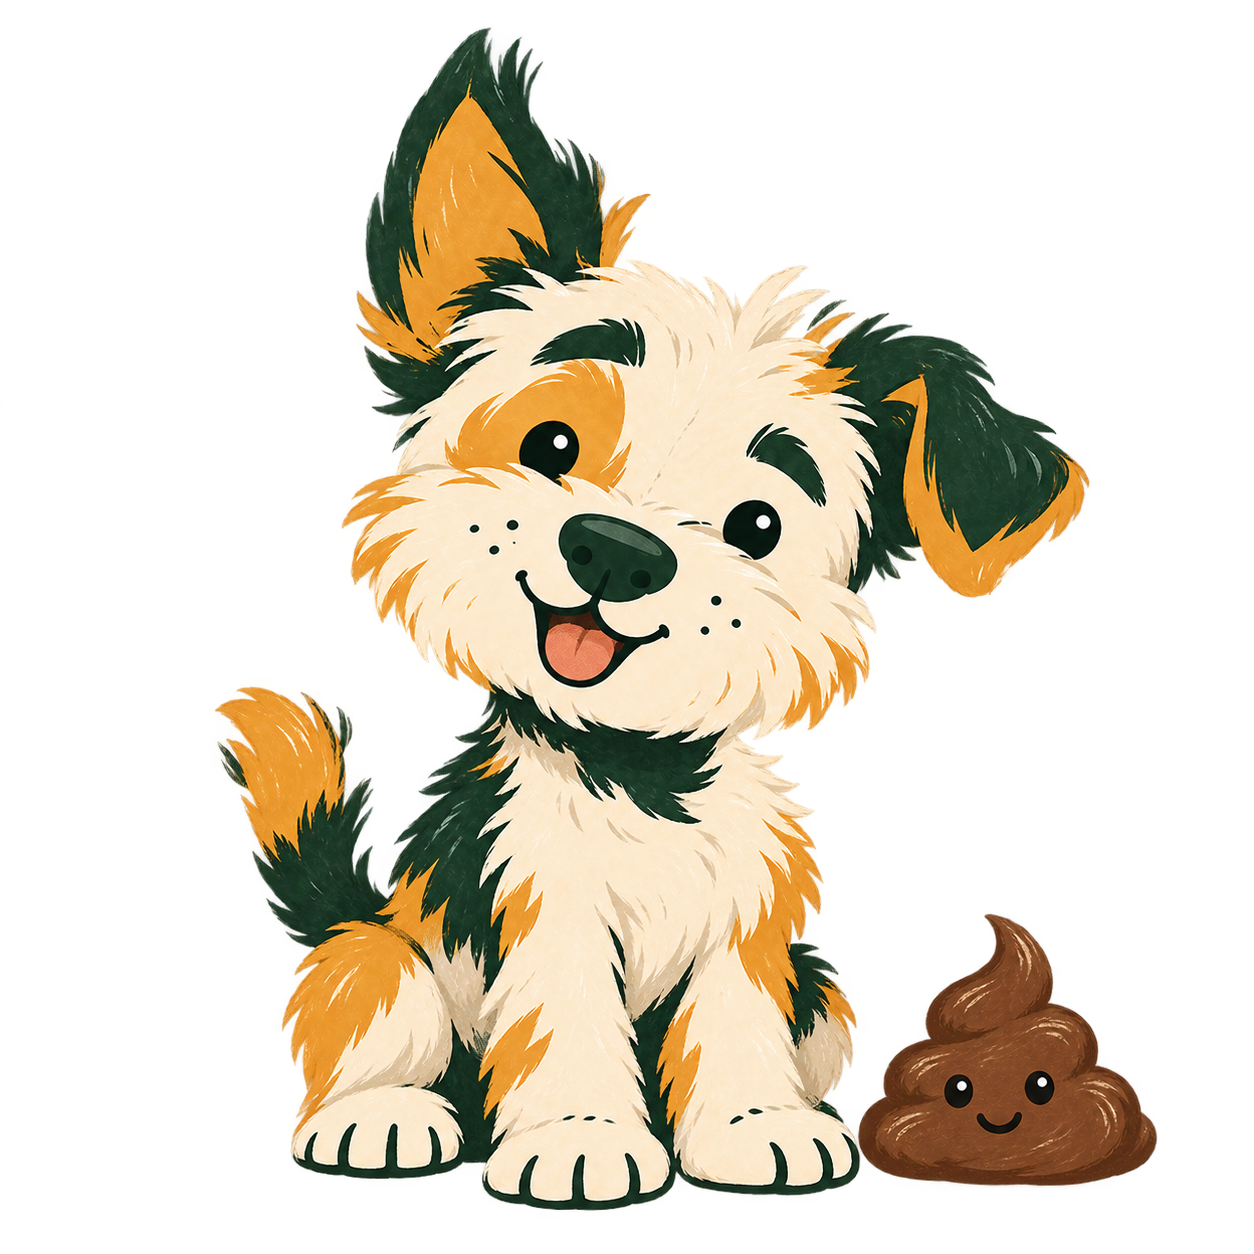
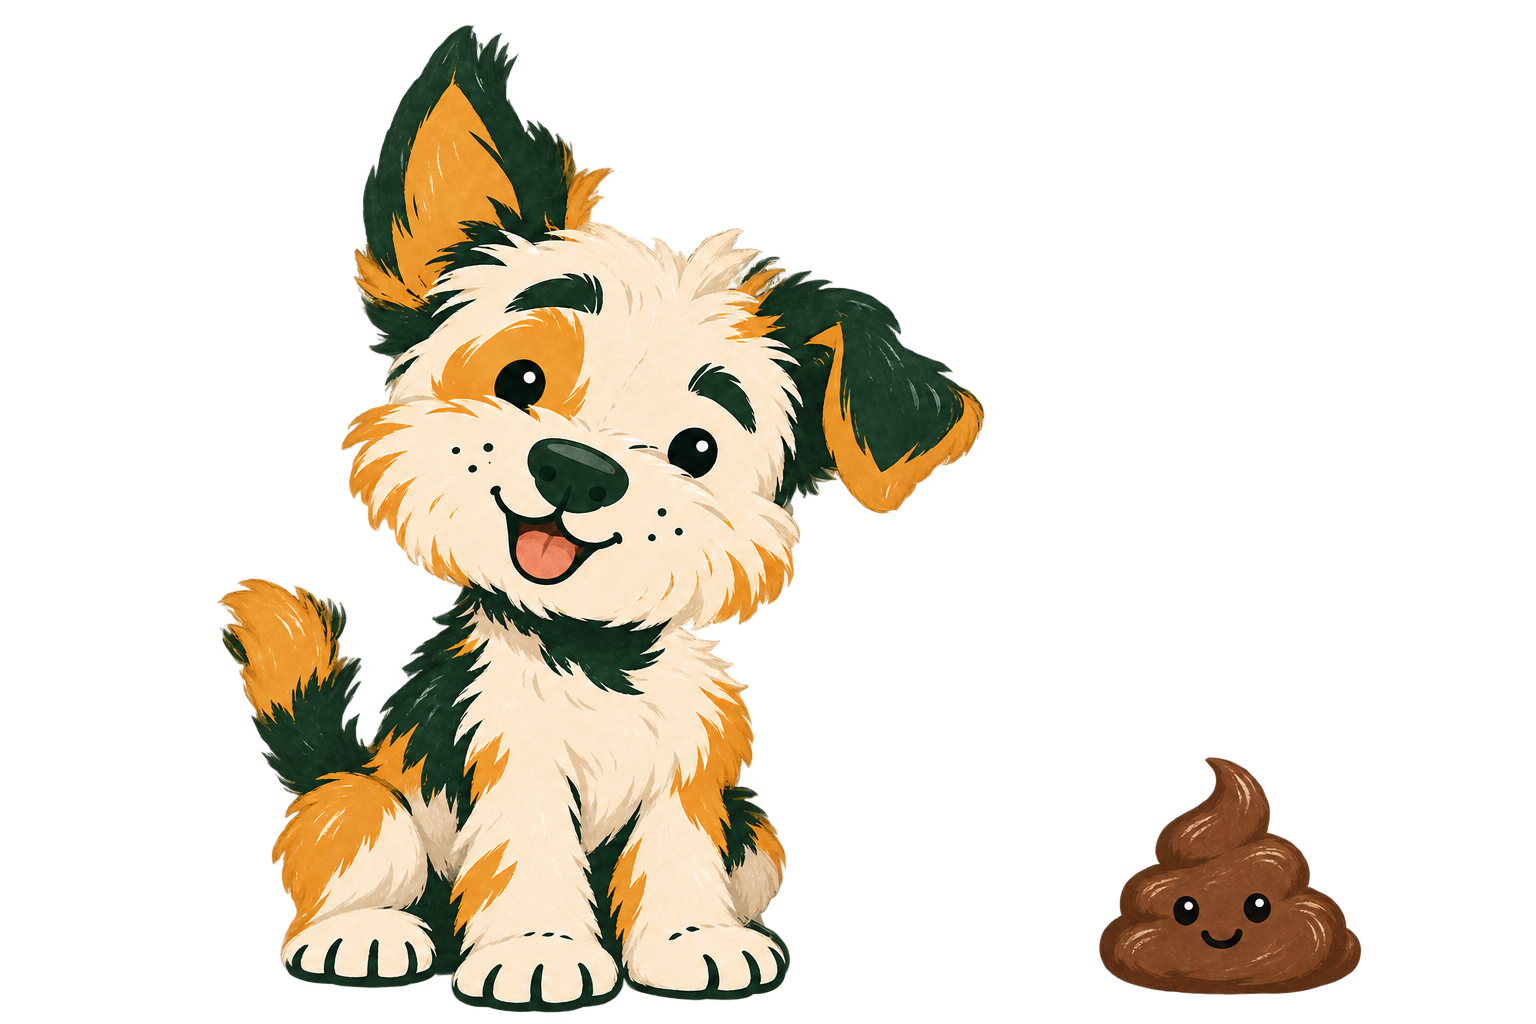
Standardize onboarding mascot size and separate the poop prop

diff --git a/src/screens/OnboardingDesignPreview.tsx b/src/screens/OnboardingDesignPreview.tsx
@@ -64,7 +64,7 @@ function PreviewFlow({onFinish,onAllowNotifications,onDisableNotifications}:Conv
   const permissionRequest=useRef(false);
   const scroll=useRef<ScrollView>(null);
   const heading=useRef<Text>(null);
-  const {fontScale,width,height}=useWindowDimensions();
+  const {fontScale,width}=useWindowDimensions();
   const [reduceMotion,setReduceMotion]=useState(true);
   const [outgoing,setOutgoing]=useState<ReactNode>(null);
   const [direction,setDirection]=useState(1);
@@ -161,11 +161,11 @@ function PreviewFlow({onFinish,onAllowNotifications,onDisableNotifications}:Conv
     <Text style={styles.choiceText}>{label}</Text><MaterialCommunityIcons name="chevron-right" size={21} color={appTheme.primary}/>
   </Pressable>;
   const prompt=(title:string,body?:string)=><View style={styles.prompt}><Text ref={heading} testID="preview.prompt" accessibilityRole="header" accessibilityLiveRegion="polite" style={styles.title}>{title}</Text>{body?<Text style={styles.body}>{body}</Text>:null}</View>;
-  const smallMascot=<Image accessible={false} source={mascot} resizeMode="contain" style={styles.smallMascot}/>;
+  const mascotImage=<Image accessible={false} source={mascot} resizeMode="contain" style={styles.mascot}/>;
   const mealStep=step==='mealTime';
   const timeIndex=mealStep?mealIndex:poopIndex;
   const time=mealStep?mealTimes[timeIndex]??0:((poopWindows[timeIndex]?.minutes??15)-15+1440)%1440;
-  const activityArt=(source:ImageSourcePropType,maxHeight=200)=><View style={styles.activityArt}><Image accessible={false} source={source} resizeMode="contain" style={[styles.activityImage,{height:Math.min(maxHeight,height*.23)}]}/></View>;
+  const activityArt=(source:ImageSourcePropType)=><View style={styles.activityArt}><Image accessible={false} source={source} resizeMode="contain" style={styles.mascot}/></View>;
 
   let body;
   if(step==='welcome')body=<ScrollView testID="preview.welcome" contentContainerStyle={styles.welcome}>
@@ -197,7 +197,7 @@ function PreviewFlow({onFinish,onAllowNotifications,onDisableNotifications}:Conv
     <ScrollView key={step} contentContainerStyle={styles.conversation}>
       {prompt(`How old is ${pup}?`)}
       <View style={styles.answers}>{puppyAges.map(item=>choice(item.id,item.label,()=>{setAge(item.id);go('meals');}))}</View>
-      {smallMascot}
+      {mascotImage}
     </ScrollView>
     {later('I’m not sure yet',()=>{setAge(null);go('meals');})}
   </>;
@@ -228,7 +228,7 @@ function PreviewFlow({onFinish,onAllowNotifications,onDisableNotifications}:Conv
           <Text style={[styles.windowTime,{flex:1}]}>{formatScheduleWindow(window,'en')}</Text><MaterialCommunityIcons name="chevron-down" color={appTheme.primary} size={20}/>
         </Pressable>
       </View>)}</View>
-      {activityArt(require('../../assets/mascots/onboarding/scruffy-pooping.png'),128)}
+      {activityArt(require('../../assets/mascots/onboarding/scruffy-pooping.png'))}
     </ScrollView>
     {footer('That works for us',()=>{replaceTimes('poop',poopWindows);go('review');},'Skip for now',()=>{replaceTimes('poop',[]);go('review');})}
   </>;
@@ -262,7 +262,7 @@ function PreviewFlow({onFinish,onAllowNotifications,onDisableNotifications}:Conv
   </>;
   else if(step==='ready')body=<>
     <ScrollView testID="preview.ready" contentContainerStyle={styles.ready}>
-      {smallMascot}{prompt('Ready for today?',reminderAnswer==='granted'?'You can change reminders in Notifications.':undefined)}
+      {mascotImage}{prompt('Ready for today?',reminderAnswer==='granted'?'You can change reminders in Notifications.':undefined)}
     </ScrollView>
     {finishError?<Text accessibilityRole="alert" style={[styles.error,{paddingHorizontal:22}]}>We couldn’t save your setup. Your answers are still here—please try again.</Text>:null}
     {footer(finishing?'Saving…':'Show me around',()=>{void complete(true);},'I’ll explore on my own',()=>{void complete(false);})}
@@ -293,15 +293,15 @@ const styles=StyleSheet.create({
   brand:{flexDirection:'row',alignItems:'center',gap:7},icon:{width:28,height:28,borderRadius:7},brandName:{fontFamily:'RedHatDisplayBold',fontSize:20,color:theme.text,letterSpacing:-.5},
   back:{minWidth:62,minHeight:44,flexDirection:'row',alignItems:'center'},backText:{fontFamily:'RedHatText',fontSize:13,color:theme.textMuted},headerSpacer:{width:62},
   profileContent:{flexGrow:1,paddingHorizontal:22,paddingTop:22},title:{fontFamily:'RedHatDisplayBold',fontSize:26,lineHeight:33,letterSpacing:-.5,color:theme.text},
-  art:{flex:1,minHeight:140,alignItems:'center',justifyContent:'center',marginTop:12},mascot:{width:'100%',height:'100%',maxHeight:300,minHeight:140},keyboardSpace:{flexGrow:1,minHeight:16},
+  art:{flex:1,minHeight:160,alignItems:'center',justifyContent:'center',marginTop:12},mascot:{width:'100%',maxWidth:320,height:160,alignSelf:'center'},keyboardSpace:{flexGrow:1,minHeight:16},
   nameField:{paddingTop:18,paddingBottom:20},nameInput:{fontFamily:'RedHatText',fontSize:27,minHeight:60,paddingVertical:10,borderBottomWidth:2,borderBottomColor:theme.primary,color:theme.text},
   footer:{paddingHorizontal:22,paddingTop:18,paddingBottom:2,backgroundColor:theme.background},primary:{minHeight:52,paddingHorizontal:16,paddingVertical:12,borderRadius:999,backgroundColor:theme.primary,flexDirection:'row',alignItems:'center',justifyContent:'center',gap:10},
   primaryText:{fontFamily:'RedHatTextSemiBold',fontSize:15,color:theme.onPrimary},pressed:{opacity:.75},secondary:{minHeight:44,alignItems:'center',justifyContent:'center',paddingVertical:8,marginTop:4},secondaryText:{fontFamily:'RedHatText',fontSize:14,color:theme.textMuted},
   conversation:{flexGrow:1,paddingHorizontal:22,paddingTop:28,paddingBottom:20,gap:28},prompt:{gap:18},body:{fontFamily:'RedHatText',fontSize:16,lineHeight:24,color:theme.textMuted},
   mealRow:{gap:10},mealTime:{fontFamily:'RedHatTextSemiBold',fontSize:20,color:appTheme.primary,fontVariant:['tabular-nums']},
   answers:{gap:12},choice:{minHeight:62,paddingVertical:16,paddingHorizontal:18,borderWidth:1,borderColor:theme.border,borderRadius:18,backgroundColor:appTheme.surface,flexDirection:'row',alignItems:'center',justifyContent:'space-between',gap:12},choicePressed:{backgroundColor:appTheme.primarySoft,borderColor:appTheme.primary},choiceText:{fontFamily:'RedHatTextSemiBold',fontSize:17,lineHeight:24,color:appTheme.text,flex:1},
-  activityArt:{flexGrow:1,justifyContent:'flex-end',alignItems:'center'},activityImage:{width:'100%',maxWidth:320},
-  poopConversation:{gap:22},poopAnswers:{gap:18},poopPair:{gap:8},mealReference:{fontFamily:'RedHatText',fontSize:14,lineHeight:20,color:'#B6CBC1',paddingHorizontal:4,fontVariant:['tabular-nums']},windowTime:{fontFamily:'RedHatTextSemiBold',fontSize:18,lineHeight:25,color:appTheme.primary,fontVariant:['tabular-nums']},
-  smallMascot:{height:150,width:180,alignSelf:'center'},progress:{fontFamily:'RedHatText',fontSize:13,color:theme.textMuted},timeSpace:{flexGrow:1,justifyContent:'center',gap:28,paddingVertical:12},timeAnswer:{minHeight:96,padding:20,borderRadius:24,backgroundColor:appTheme.surface,flexDirection:'row',alignItems:'center',justifyContent:'center',gap:18},timeText:{fontFamily:'RedHatDisplayBold',fontSize:40,lineHeight:52,color:appTheme.primary,fontVariant:['tabular-nums'],flexShrink:1},
+  activityArt:{flexGrow:1,justifyContent:'flex-end',alignItems:'center'},
+  poopConversation:{gap:16,paddingTop:20},poopAnswers:{gap:14},poopPair:{gap:8},mealReference:{fontFamily:'RedHatText',fontSize:14,lineHeight:20,color:'#B6CBC1',paddingHorizontal:4,fontVariant:['tabular-nums']},windowTime:{fontFamily:'RedHatTextSemiBold',fontSize:18,lineHeight:25,color:appTheme.primary,fontVariant:['tabular-nums']},
+  progress:{fontFamily:'RedHatText',fontSize:13,color:theme.textMuted},timeSpace:{flexGrow:1,justifyContent:'center',gap:28,paddingVertical:12},timeAnswer:{minHeight:96,padding:20,borderRadius:24,backgroundColor:appTheme.surface,flexDirection:'row',alignItems:'center',justifyContent:'center',gap:18},timeText:{fontFamily:'RedHatDisplayBold',fontSize:40,lineHeight:52,color:appTheme.primary,fontVariant:['tabular-nums'],flexShrink:1},
   plan:{borderTopWidth:1,borderColor:theme.border,paddingTop:20,gap:12},planHeading:{fontFamily:'RedHatTextSemiBold',fontSize:15,color:theme.textMuted},planTime:{fontFamily:'RedHatTextSemiBold',fontSize:22,lineHeight:30,color:theme.text,fontVariant:['tabular-nums']},schedule:{flex:1},ready:{flexGrow:1,padding:24,justifyContent:'center',gap:28},
 });

diff --git a/assets/mascots/README.md b/assets/mascots/README.md
@@ -33,3 +33,7 @@ Final prompt set:
   forest-green and ochre fur and asymmetrical ears. No squatting, anatomical
   detail, pasted Unicode emoji, glossy 3D rendering, text or extra props.
   Transparent background.
+
+Spacing revision (built-in ImageGen edit of `onboarding/scruffy-pooping.png`):
+
+> Use case: precise-object-edit. Edit target: the supplied transparent illustration of Scruffy sitting beside a small smiling poop. Change only their spacing: move the little painted poop farther to the viewer's right so there is a clear transparent gap between Scruffy's rightmost paw/fur and the poop, about half the width of his face (roughly one poop-width of empty ground). Keep both on the same baseline. Preserve Scruffy's exact happy sitting pose, expression, tongue, asymmetrical ears, proportions, cream/forest-green/ochre fur, rough brushwork, and the small poop's painted design, scale and smile. This must stay one coherent flat hand-painted illustration, with genuine transparent alpha, no background or ground patch. Keep the full dog and poop fully in frame with modest transparent padding; widen the canvas if needed rather than shrinking Scruffy. No additional props, no text, no 3D effects.

diff --git a/docs/onboarding-native-preview.md b/docs/onboarding-native-preview.md
@@ -45,6 +45,10 @@ Pages slide horizontally as a whole, including their header and footer. Back
 reverses the direction. Reduce Motion disables these transitions. The welcome
 scene remains static; the new meal and poop illustrations are coherent generated
 images, not programmatically composed props. See the mascot README for prompts.
+Every onboarding illustration uses the same 160-point image height, including
+welcome, name, age, meal times, poop windows and the final page. Images retain
+their proportions and fit within the same 320-point maximum width. The poop
+scene has a visible gap between Scruffy and the small painted poop.
 
 ## Notifications
 
